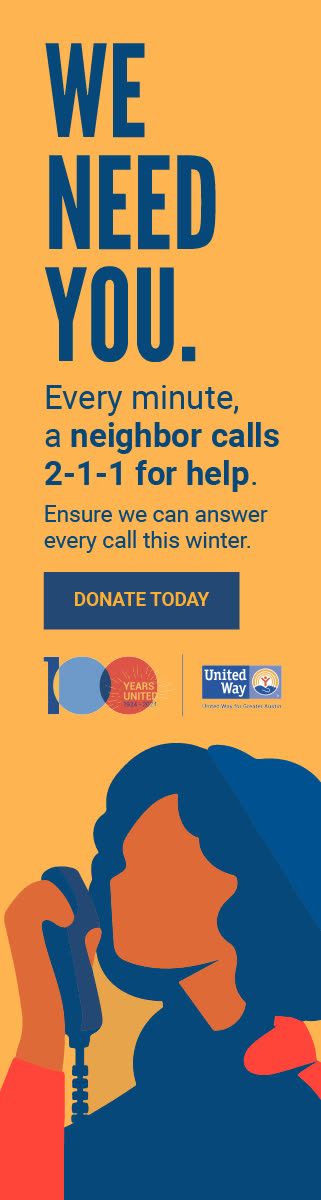
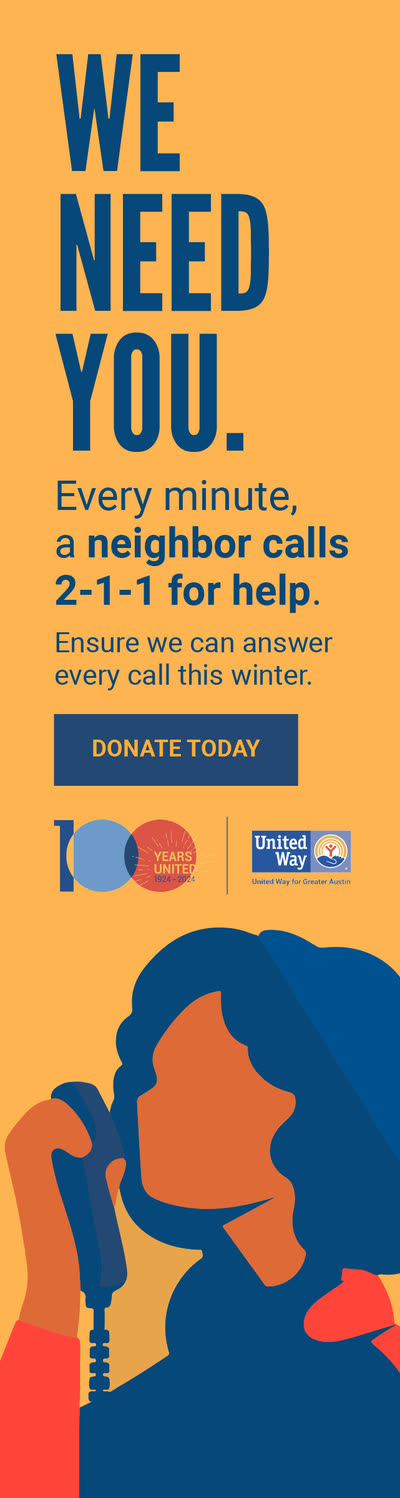
Publica o site (2026-11-17)

diff --git a/work/united-way-ebj6lw/index.html b/work/united-way-ebj6lw/index.html
@@ -39,7 +39,7 @@
      <link rel="stylesheet" href="https://use.typekit.net/SEU-KIT.css">
      Enquanto isso, a Inter Tight entra no lugar dela. -->
 <link rel="stylesheet" href="https://fonts.googleapis.com/css2?family=Inter+Tight:ital,wght@0,400;0,500;0,600;0,700;1,500;1,600&display=swap">
-<link rel="stylesheet" href="../../assets/styles.css?v=14af6fd7">
+<link rel="stylesheet" href="../../assets/styles.css?v=12ceb4c3">
 <!-- avisa o CSS que há JavaScript, para esconder o que vai aparecer ao rolar (sem JS, tudo fica visível), e se o
      celular está com a economia de dados ligada (save-data: os vídeos das capas ficam parados, 04/11/2026) -->
 <script>document.documentElement.classList.add('js');if(navigator.connection&&navigator.connection.saveData)document.documentElement.classList.add('save-data')</script>
@@ -96,12 +96,12 @@
     <header class="pv-sec__head">
       <p class="pv-sec__kicker" data-reveal>End of year campaign · 2024</p>
       <h2 class="h2 pv-sec__title" id="pv-sec-1" data-reveal="title">Every minute, a neighbor calls <em>2-1-1</em></h2>
-      <p class="pv-sec__text" data-reveal>For the winter fundraising campaign I wanted you to almost hear the phone ringing. A woman on the line, a big &quot;We need you&quot; and the warm orange of their brand, from the big web banner down to the smallest display ad and the email header. Every size had to say the same thing at a glance.</p>
+      <p class="pv-sec__text" data-reveal>For the winter fundraising campaign I wanted you to almost hear the phone ringing. A woman on the line, a big &quot;We need you&quot; and the warm orange of their brand, from the big web banner down to the narrowest display ad. Every size had to say the same thing at a glance.</p>
       
     </header>
     <div class="pv-blocks">
-<div class="pv-row"><figure class="pv-cell" style="--r:2.4390" data-reveal="img"><img src="../../assets/work/united-way/eoy-takeover.jpg" srcset="../../assets/work/united-way/eoy-takeover-sm.jpg 720w, ../../assets/work/united-way/eoy-takeover.jpg 2000w" sizes="71vw" width="2000" height="820" alt="" loading="lazy" decoding="async"></figure><figure class="pv-cell" style="--r:1.0000" data-reveal="img"><img src="../../assets/work/united-way/eoy-emergencies.jpg" srcset="../../assets/work/united-way/eoy-emergencies-sm.jpg 720w, ../../assets/work/united-way/eoy-emergencies.jpg 1200w" sizes="29vw" width="1200" height="1200" alt="" loading="lazy" decoding="async"></figure></div>
-<div class="pv-ads"><figure class="pv-ad" style="--w:728" data-reveal><img src="../../assets/work/united-way/eoy-ad-728.jpg" srcset="../../assets/work/united-way/eoy-ad-728-sm.jpg 720w, ../../assets/work/united-way/eoy-ad-728.jpg 1456w" sizes="(max-width: 760px) 70vw, 40vw" width="1456" height="180" alt="" loading="lazy" decoding="async"></figure><figure class="pv-ad" style="--w:161" data-reveal><img src="../../assets/work/united-way/eoy-ad-160.jpg" width="321" height="1200" alt="" loading="lazy" decoding="async"></figure><figure class="pv-ad" style="--w:300" data-reveal><img src="../../assets/work/united-way/eoy-ad-300.jpg" width="600" height="500" alt="" loading="lazy" decoding="async"></figure><figure class="pv-ad" style="--w:181" data-reveal><img src="../../assets/work/united-way/eoy-ad-180.jpg" width="361" height="300" alt="" loading="lazy" decoding="async"></figure><figure class="pv-ad" style="--w:600" data-reveal><img src="../../assets/work/united-way/eoy-email.jpg" srcset="../../assets/work/united-way/eoy-email-sm.jpg 720w, ../../assets/work/united-way/eoy-email.jpg 1200w" sizes="(max-width: 760px) 70vw, 40vw" width="1200" height="402" alt="" loading="lazy" decoding="async"></figure></div>
+<figure class="pv-full" data-reveal="img"><img src="../../assets/work/united-way/eoy-ad-728.jpg" srcset="../../assets/work/united-way/eoy-ad-728-sm.jpg 720w, ../../assets/work/united-way/eoy-ad-728.jpg 2400w" sizes="(max-width: 760px) 92vw, 1240px" width="2400" height="296" alt="" loading="lazy" decoding="async"></figure>
+<div class="pv-row"><figure class="pv-cell pv-cell--tall" style="--r:0.2670" data-reveal="img"><img src="../../assets/work/united-way/eoy-ad-160.jpg" width="400" height="1498" alt="" loading="lazy" decoding="async"></figure><figure class="pv-cell" style="--r:2.4390" data-reveal="img"><img src="../../assets/work/united-way/eoy-takeover.jpg" srcset="../../assets/work/united-way/eoy-takeover-sm.jpg 720w, ../../assets/work/united-way/eoy-takeover.jpg 2000w" sizes="66vw" width="2000" height="820" alt="" loading="lazy" decoding="async"></figure><figure class="pv-cell" style="--r:1.0000" data-reveal="img"><img src="../../assets/work/united-way/eoy-emergencies.jpg" srcset="../../assets/work/united-way/eoy-emergencies-sm.jpg 720w, ../../assets/work/united-way/eoy-emergencies.jpg 1200w" sizes="27vw" width="1200" height="1200" alt="" loading="lazy" decoding="async"></figure></div>
     </div>
   </div>
 </section>

diff --git a/work/banquete-da-alma/index.html b/work/banquete-da-alma/index.html
@@ -39,7 +39,7 @@ For the Pacote de Afeto, a gift box with twelve decorated envelopes and a writin
      <link rel="stylesheet" href="https://use.typekit.net/SEU-KIT.css">
      Enquanto isso, a Inter Tight entra no lugar dela. -->
 <link rel="stylesheet" href="https://fonts.googleapis.com/css2?family=Inter+Tight:ital,wght@0,400;0,500;0,600;0,700;1,500;1,600&display=swap">
-<link rel="stylesheet" href="../../assets/styles.css?v=14af6fd7">
+<link rel="stylesheet" href="../../assets/styles.css?v=12ceb4c3">
 <!-- avisa o CSS que há JavaScript, para esconder o que vai aparecer ao rolar (sem JS, tudo fica visível), e se o
      celular está com a economia de dados ligada (save-data: os vídeos das capas ficam parados, 04/11/2026) -->
 <script>document.documentElement.classList.add('js');if(navigator.connection&&navigator.connection.saveData)document.documentElement.classList.add('save-data')</script>

diff --git a/work/mom-and-pops/index.html b/work/mom-and-pops/index.html
@@ -39,7 +39,7 @@ The logo reads from far away, so people know what's being sold before they get c
      <link rel="stylesheet" href="https://use.typekit.net/SEU-KIT.css">
      Enquanto isso, a Inter Tight entra no lugar dela. -->
 <link rel="stylesheet" href="https://fonts.googleapis.com/css2?family=Inter+Tight:ital,wght@0,400;0,500;0,600;0,700;1,500;1,600&display=swap">
-<link rel="stylesheet" href="../../assets/styles.css?v=14af6fd7">
+<link rel="stylesheet" href="../../assets/styles.css?v=12ceb4c3">
 <!-- avisa o CSS que há JavaScript, para esconder o que vai aparecer ao rolar (sem JS, tudo fica visível), e se o
      celular está com a economia de dados ligada (save-data: os vídeos das capas ficam parados, 04/11/2026) -->
 <script>document.documentElement.classList.add('js');if(navigator.connection&&navigator.connection.saveData)document.documentElement.classList.add('save-data')</script>

diff --git a/work/vora/index.html b/work/vora/index.html
@@ -39,7 +39,7 @@ I created the identity and the candle labels, one for each scent, from Camomila 
      <link rel="stylesheet" href="https://use.typekit.net/SEU-KIT.css">
      Enquanto isso, a Inter Tight entra no lugar dela. -->
 <link rel="stylesheet" href="https://fonts.googleapis.com/css2?family=Inter+Tight:ital,wght@0,400;0,500;0,600;0,700;1,500;1,600&display=swap">
-<link rel="stylesheet" href="../../assets/styles.css?v=14af6fd7">
+<link rel="stylesheet" href="../../assets/styles.css?v=12ceb4c3">
 <!-- avisa o CSS que há JavaScript, para esconder o que vai aparecer ao rolar (sem JS, tudo fica visível), e se o
      celular está com a economia de dados ligada (save-data: os vídeos das capas ficam parados, 04/11/2026) -->
 <script>document.documentElement.classList.add('js');if(navigator.connection&&navigator.connection.saveData)document.documentElement.classList.add('save-data')</script>

diff --git a/work/amor-no-feed/index.html b/work/amor-no-feed/index.html
@@ -39,7 +39,7 @@ Sixty cards in three phases: light quest">
      <link rel="stylesheet" href="https://use.typekit.net/SEU-KIT.css">
      Enquanto isso, a Inter Tight entra no lugar dela. -->
 <link rel="stylesheet" href="https://fonts.googleapis.com/css2?family=Inter+Tight:ital,wght@0,400;0,500;0,600;0,700;1,500;1,600&display=swap">
-<link rel="stylesheet" href="../../assets/styles.css?v=14af6fd7">
+<link rel="stylesheet" href="../../assets/styles.css?v=12ceb4c3">
 <!-- avisa o CSS que há JavaScript, para esconder o que vai aparecer ao rolar (sem JS, tudo fica visível), e se o
      celular está com a economia de dados ligada (save-data: os vídeos das capas ficam parados, 04/11/2026) -->
 <script>document.documentElement.classList.add('js');if(navigator.connection&&navigator.connection.saveData)document.documentElement.classList.add('save-data')</script>

diff --git a/work/rook/index.html b/work/rook/index.html
@@ -39,7 +39,7 @@ With my studio, Bu">
      <link rel="stylesheet" href="https://use.typekit.net/SEU-KIT.css">
      Enquanto isso, a Inter Tight entra no lugar dela. -->
 <link rel="stylesheet" href="https://fonts.googleapis.com/css2?family=Inter+Tight:ital,wght@0,400;0,500;0,600;0,700;1,500;1,600&display=swap">
-<link rel="stylesheet" href="../../assets/styles.css?v=14af6fd7">
+<link rel="stylesheet" href="../../assets/styles.css?v=12ceb4c3">
 <!-- avisa o CSS que há JavaScript, para esconder o que vai aparecer ao rolar (sem JS, tudo fica visível), e se o
      celular está com a economia de dados ligada (save-data: os vídeos das capas ficam parados, 04/11/2026) -->
 <script>document.documentElement.classList.add('js');if(navigator.connection&&navigator.connection.saveData)document.documentElement.classList.add('save-data')</script>

diff --git a/blog/design-quality-without-burnout/index.html b/blog/design-quality-without-burnout/index.html
@@ -39,7 +39,7 @@
      <link rel="stylesheet" href="https://use.typekit.net/SEU-KIT.css">
      Enquanto isso, a Inter Tight entra no lugar dela. -->
 <link rel="stylesheet" href="https://fonts.googleapis.com/css2?family=Inter+Tight:ital,wght@0,400;0,500;0,600;0,700;1,500;1,600&display=swap">
-<link rel="stylesheet" href="../../assets/styles.css?v=14af6fd7">
+<link rel="stylesheet" href="../../assets/styles.css?v=12ceb4c3">
 <!-- avisa o CSS que há JavaScript, para esconder o que vai aparecer ao rolar (sem JS, tudo fica visível), e se o
      celular está com a economia de dados ligada (save-data: os vídeos das capas ficam parados, 04/11/2026) -->
 <script>document.documentElement.classList.add('js');if(navigator.connection&&navigator.connection.saveData)document.documentElement.classList.add('save-data')</script>

diff --git a/blog/questions-to-ask-a-white-label-designer/index.html b/blog/questions-to-ask-a-white-label-designer/index.html
@@ -39,7 +39,7 @@
      <link rel="stylesheet" href="https://use.typekit.net/SEU-KIT.css">
      Enquanto isso, a Inter Tight entra no lugar dela. -->
 <link rel="stylesheet" href="https://fonts.googleapis.com/css2?family=Inter+Tight:ital,wght@0,400;0,500;0,600;0,700;1,500;1,600&display=swap">
-<link rel="stylesheet" href="../../assets/styles.css?v=14af6fd7">
+<link rel="stylesheet" href="../../assets/styles.css?v=12ceb4c3">
 <!-- avisa o CSS que há JavaScript, para esconder o que vai aparecer ao rolar (sem JS, tudo fica visível), e se o
      celular está com a economia de dados ligada (save-data: os vídeos das capas ficam parados, 04/11/2026) -->
 <script>document.documentElement.classList.add('js');if(navigator.connection&&navigator.connection.saveData)document.documentElement.classList.add('save-data')</script>

diff --git a/blog/what-design-work-to-outsource/index.html b/blog/what-design-work-to-outsource/index.html
@@ -39,7 +39,7 @@
      <link rel="stylesheet" href="https://use.typekit.net/SEU-KIT.css">
      Enquanto isso, a Inter Tight entra no lugar dela. -->
 <link rel="stylesheet" href="https://fonts.googleapis.com/css2?family=Inter+Tight:ital,wght@0,400;0,500;0,600;0,700;1,500;1,600&display=swap">
-<link rel="stylesheet" href="../../assets/styles.css?v=14af6fd7">
+<link rel="stylesheet" href="../../assets/styles.css?v=12ceb4c3">
 <!-- avisa o CSS que há JavaScript, para esconder o que vai aparecer ao rolar (sem JS, tudo fica visível), e se o
      celular está com a economia de dados ligada (save-data: os vídeos das capas ficam parados, 04/11/2026) -->
 <script>document.documentElement.classList.add('js');if(navigator.connection&&navigator.connection.saveData)document.documentElement.classList.add('save-data')</script>

diff --git a/blog/what-is-white-label-design/index.html b/blog/what-is-white-label-design/index.html
@@ -39,7 +39,7 @@
      <link rel="stylesheet" href="https://use.typekit.net/SEU-KIT.css">
      Enquanto isso, a Inter Tight entra no lugar dela. -->
 <link rel="stylesheet" href="https://fonts.googleapis.com/css2?family=Inter+Tight:ital,wght@0,400;0,500;0,600;0,700;1,500;1,600&display=swap">
-<link rel="stylesheet" href="../../assets/styles.css?v=14af6fd7">
+<link rel="stylesheet" href="../../assets/styles.css?v=12ceb4c3">
 <!-- avisa o CSS que há JavaScript, para esconder o que vai aparecer ao rolar (sem JS, tudo fica visível), e se o
      celular está com a economia de dados ligada (save-data: os vídeos das capas ficam parados, 04/11/2026) -->
 <script>document.documentElement.classList.add('js');if(navigator.connection&&navigator.connection.saveData)document.documentElement.classList.add('save-data')</script>

diff --git a/blog/when-to-outsource-design/index.html b/blog/when-to-outsource-design/index.html
@@ -39,7 +39,7 @@
      <link rel="stylesheet" href="https://use.typekit.net/SEU-KIT.css">
      Enquanto isso, a Inter Tight entra no lugar dela. -->
 <link rel="stylesheet" href="https://fonts.googleapis.com/css2?family=Inter+Tight:ital,wght@0,400;0,500;0,600;0,700;1,500;1,600&display=swap">
-<link rel="stylesheet" href="../../assets/styles.css?v=14af6fd7">
+<link rel="stylesheet" href="../../assets/styles.css?v=12ceb4c3">
 <!-- avisa o CSS que há JavaScript, para esconder o que vai aparecer ao rolar (sem JS, tudo fica visível), e se o
      celular está com a economia de dados ligada (save-data: os vídeos das capas ficam parados, 04/11/2026) -->
 <script>document.documentElement.classList.add('js');if(navigator.connection&&navigator.connection.saveData)document.documentElement.classList.add('save-data')</script>

diff --git a/blog/white-label-branding-for-agencies/index.html b/blog/white-label-branding-for-agencies/index.html
@@ -39,7 +39,7 @@
      <link rel="stylesheet" href="https://use.typekit.net/SEU-KIT.css">
      Enquanto isso, a Inter Tight entra no lugar dela. -->
 <link rel="stylesheet" href="https://fonts.googleapis.com/css2?family=Inter+Tight:ital,wght@0,400;0,500;0,600;0,700;1,500;1,600&display=swap">
-<link rel="stylesheet" href="../../assets/styles.css?v=14af6fd7">
+<link rel="stylesheet" href="../../assets/styles.css?v=12ceb4c3">
 <!-- avisa o CSS que há JavaScript, para esconder o que vai aparecer ao rolar (sem JS, tudo fica visível), e se o
      celular está com a economia de dados ligada (save-data: os vídeos das capas ficam parados, 04/11/2026) -->
 <script>document.documentElement.classList.add('js');if(navigator.connection&&navigator.connection.saveData)document.documentElement.classList.add('save-data')</script>
